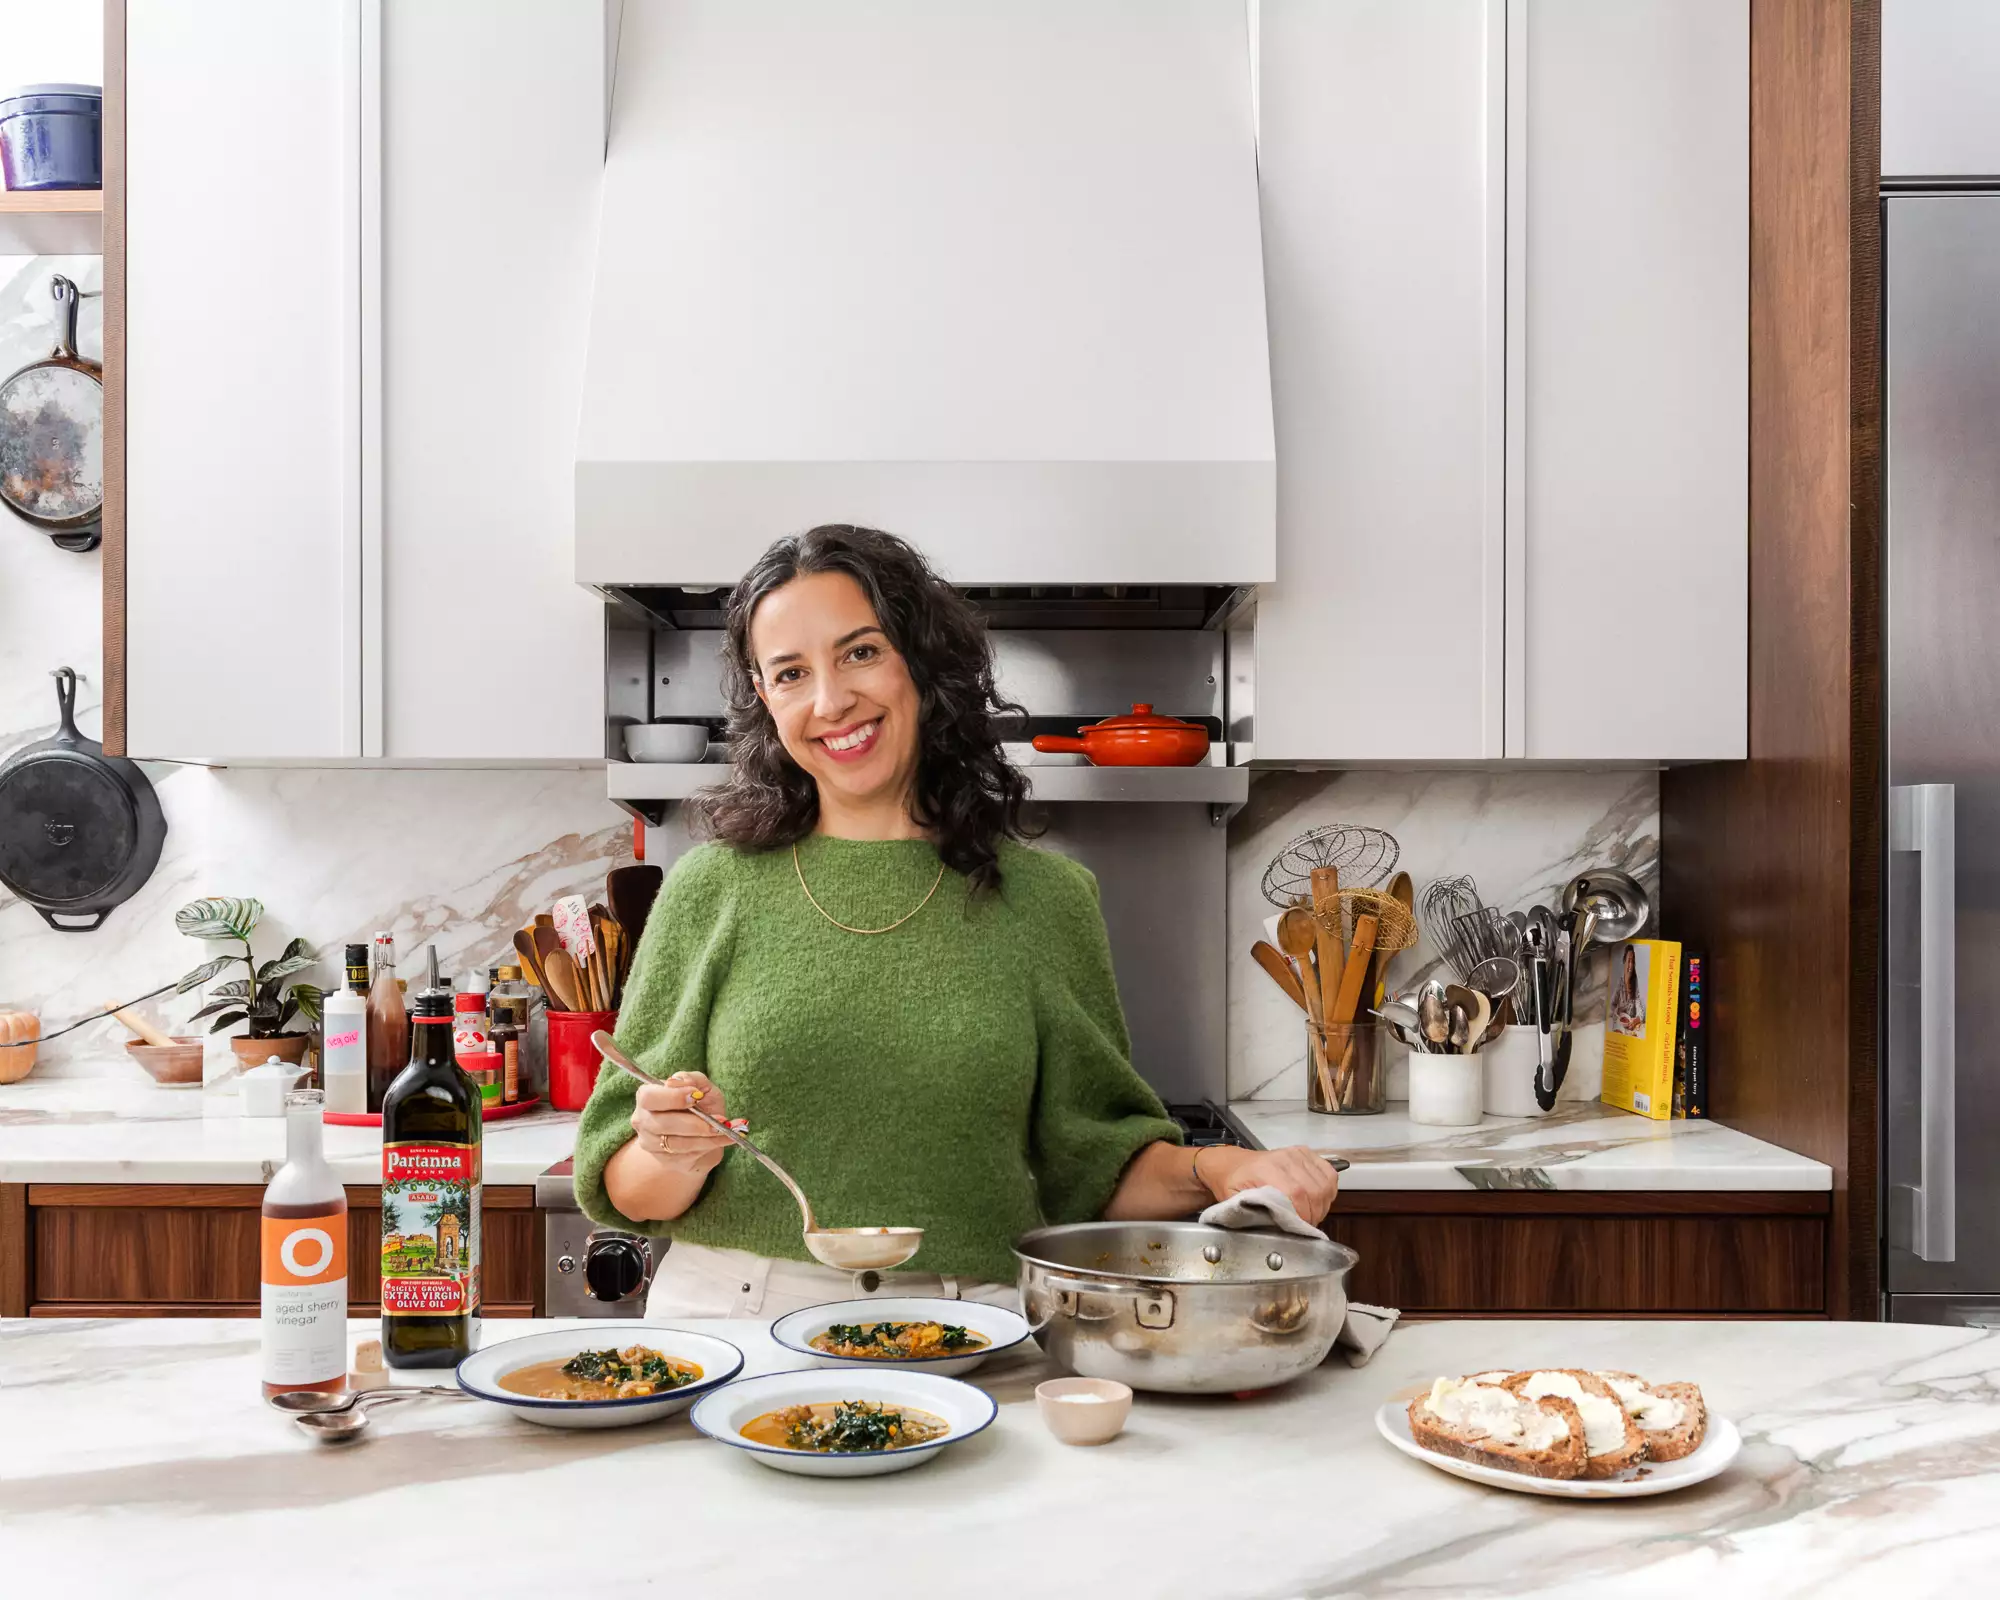
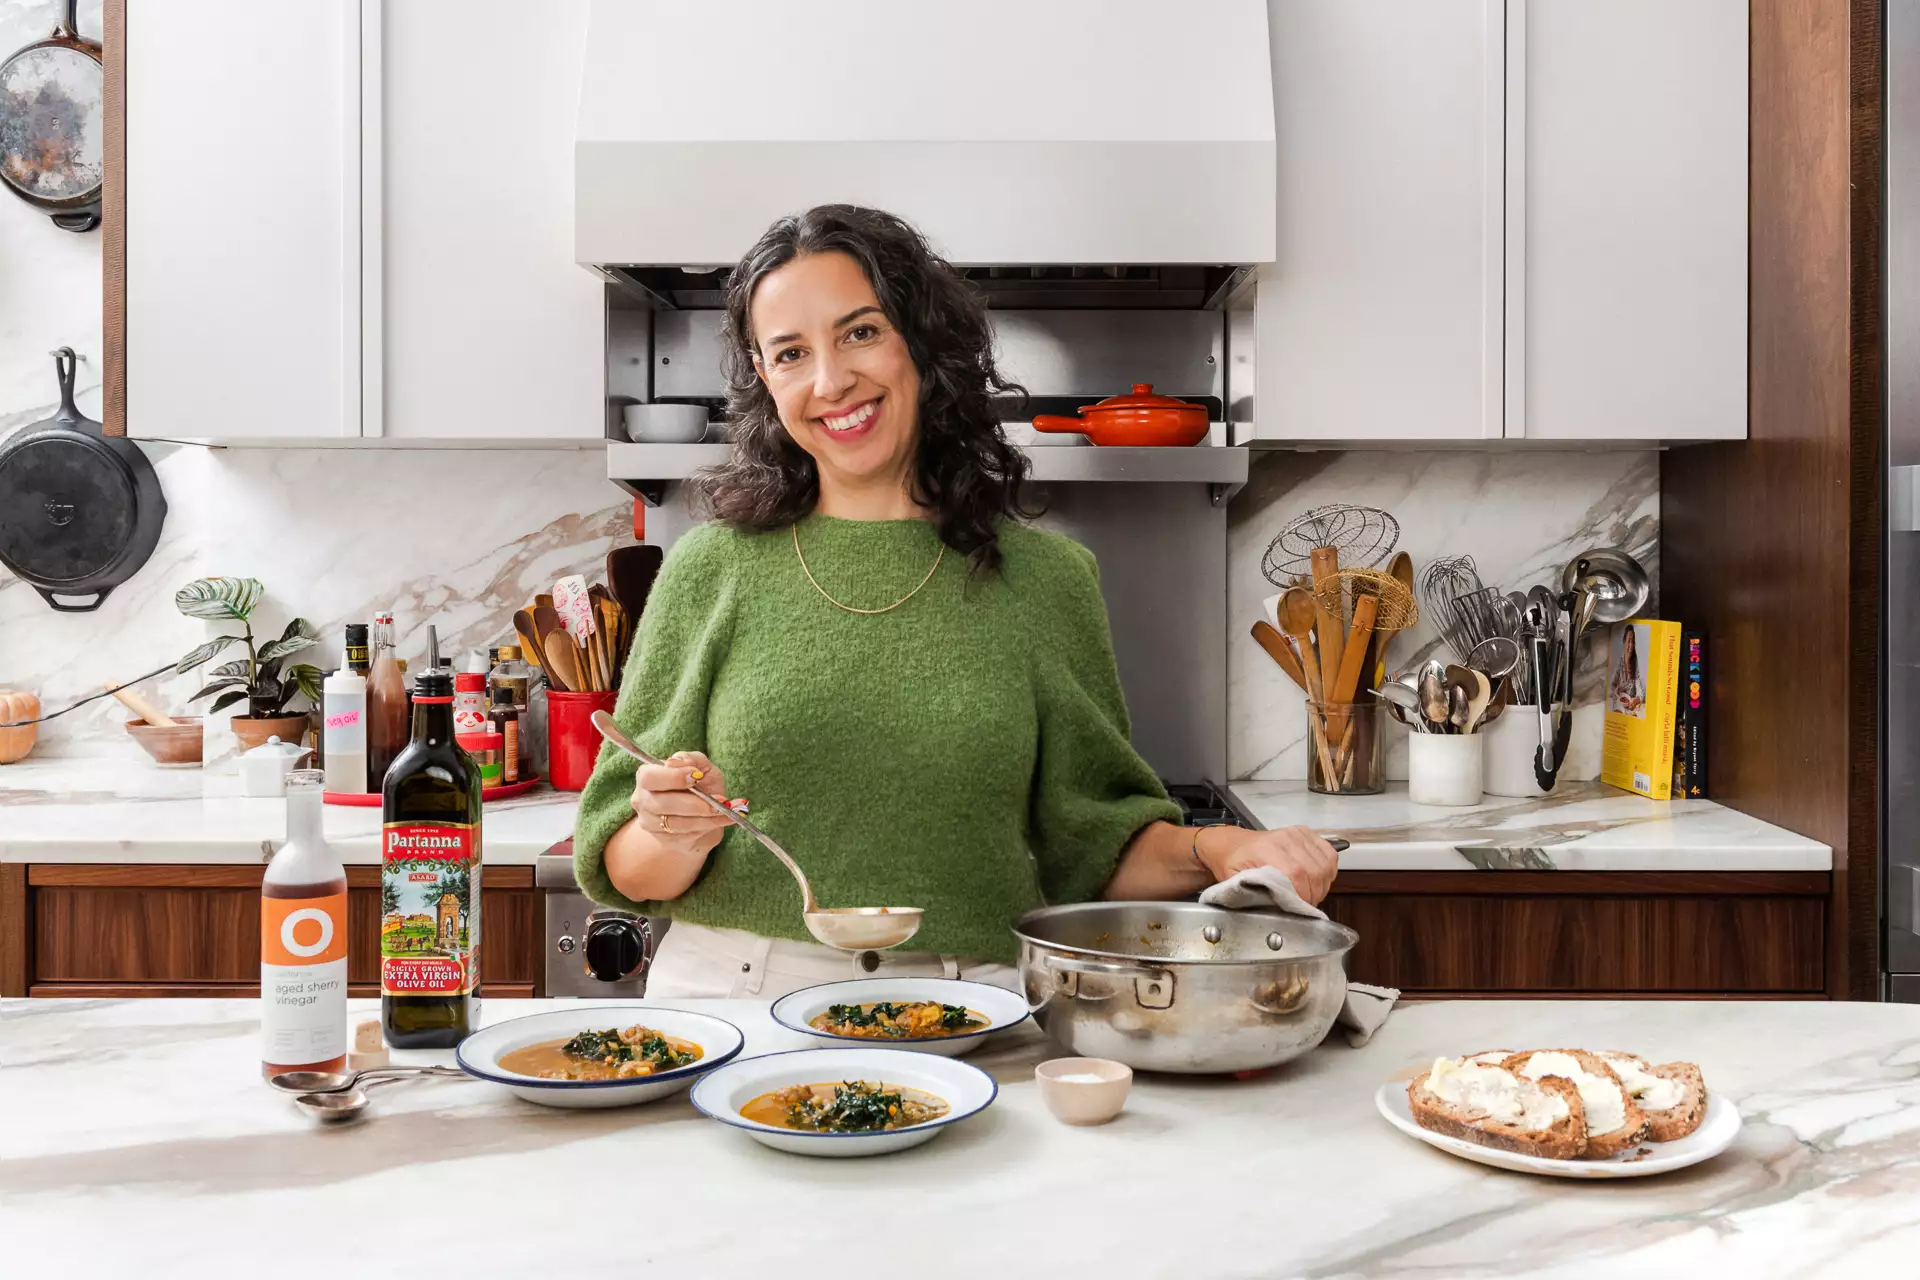
fixed carousel & croppped the image

diff --git a/index.html b/index.html
@@ -84,21 +84,21 @@
   </div>
   <div class="carousel-inner">
     <div class="carousel-item active" data-bs-interval="10000">
-      <img src="images/home-cooking.jpg" class="d-block w-30" alt="...">
+      <img src="images/home-cooking.jpg" class="carousel-img d-block w-100" alt="...">
       <div class="carousel-caption d-none d-md-block">
         <h5>Cooking made me Happier</h5>
         <p>What's Cooking helped me discover meals that I can share with the people I love.</p>
       </div>
     </div>
     <div class="carousel-item" data-bs-interval="2000">
-      <img src="images/couple-cooking.jpg" class="d-block w-30" alt="...">
+      <img src="images/couple-cooking.jpg" class="d-block w-100" alt="...">
       <div class="carousel-caption d-none d-md-block">
         <h5>Spice up your love life</h5>
         <p>We us What's Cooking meals to suprises eachother with interesting new dishes.</p>
       </div>
     </div>
     <div class="carousel-item">
-      <img src="images/family-home-cooking.jpg" class="d-block w-30" alt="...">
+      <img src="images/family-home-cooking.jpg" class="d-block w-100" alt="...">
       <div class="carousel-caption d-none d-md-block">
         <h5>Fun activity for all</h5>
         <p>We just love cooking as a family. What's Cooking makes finding a new meals so easy. Thank you!</p>

diff --git a/style.css b/style.css
@@ -184,6 +184,8 @@ ul {
 
 .carousel-inner{
     display:block;
+    width:50%;
+    margin:auto;
 }
 
 .carousel-caption > h5  {
@@ -205,19 +207,10 @@ ul {
 
 .carousel-img{
     margin:auto;
-    width:50%;
-}
-
-.mb-3{
- margin:auto;
- width:50%;
+    width:1%;
 }
 
 .text-area{
 resize: both;
   overflow: auto;
-}
-
-#carouselExampleDark{
-    background-color: rgb(246, 190, 106);
 }
